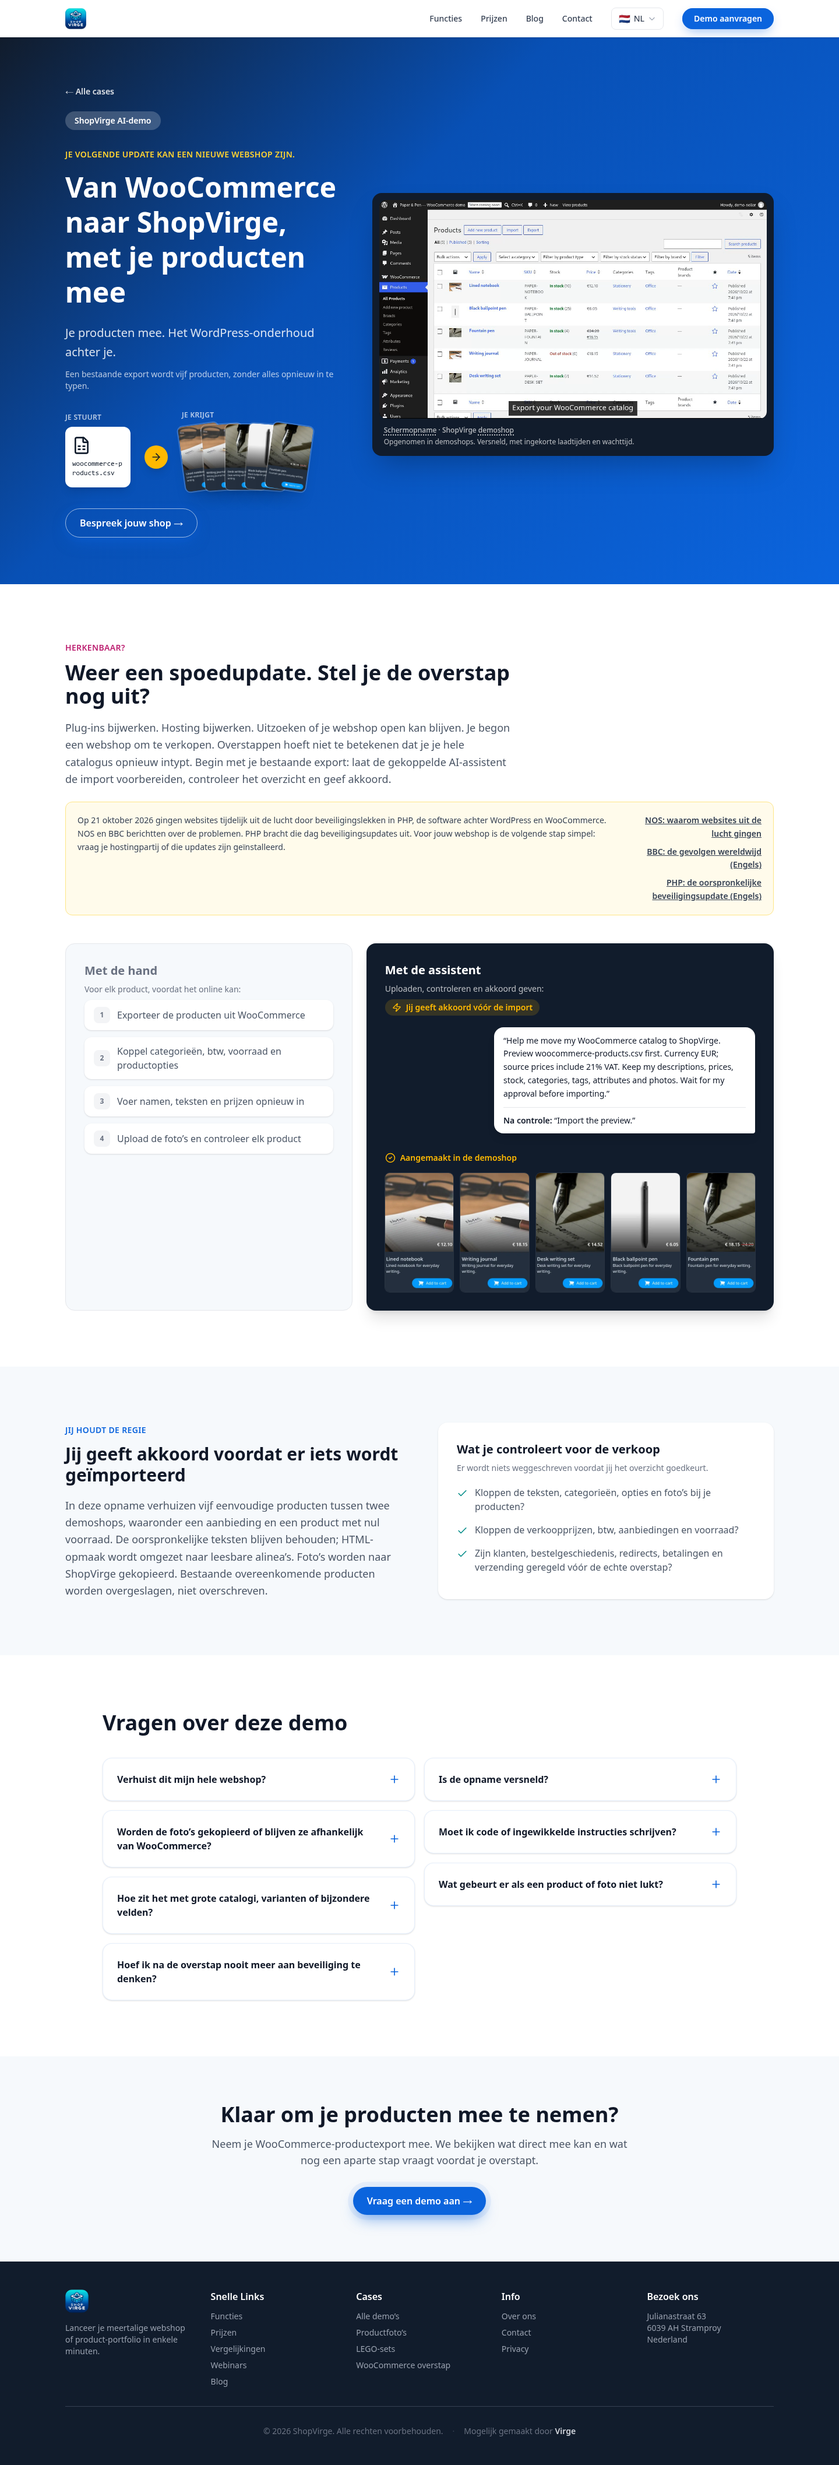
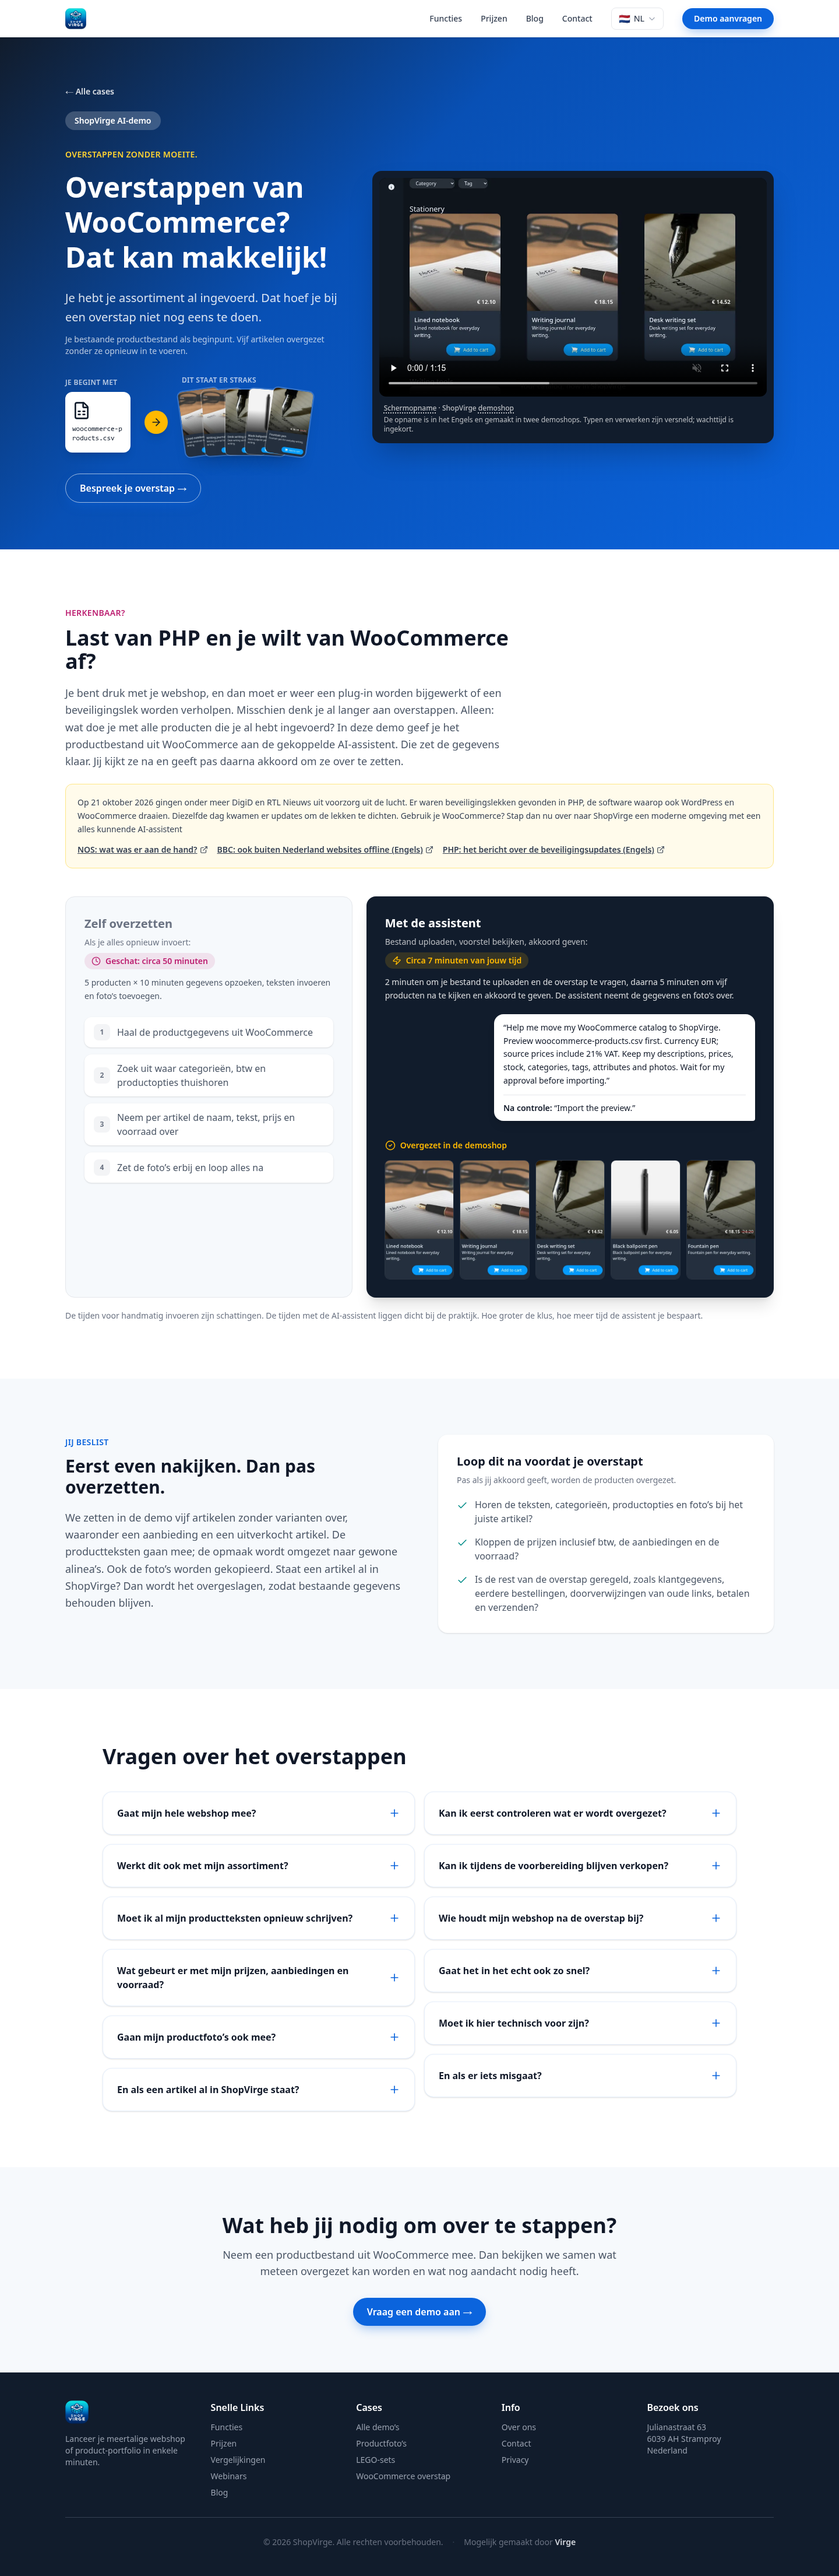
Expand WooCommerce migration FAQ and explain revision recovery

diff --git a/src/data/woocommerce-demo.ts b/src/data/woocommerce-demo.ts
@@ -1,3 +1,4 @@
+
 // Copy follows the recorded WooCommerce export → preview → approval → import.
 export const woocommerceDemo = {
   "en": {
@@ -43,23 +44,43 @@ export const woocommerceDemo = {
       "faq": [
         {
           "q": "Does this move my entire shop?",
-          "a": "This demo transfers the product catalog. For redirects, we can import a list of your old URLs and set up redirects where needed, so links and search results keep working. Need more, such as order history or customer accounts? Contact us and we will plan that with you before the live switch."
+          "a": "The assistant transfers your product catalog: descriptions, prices, stock, categories and photos. We also plan the rest of your switch with you, including customer accounts, order history, your domain, payments, shipping and redirects from old links. Those are separate from transferring the products."
         },
         {
-          "q": "Are the photos copied, or do they still depend on WooCommerce?",
-          "a": "The photos are uploaded into ShopVirge’s own image storage. The recording checks the copied photos without loading them from their source. Keep your old shop available until the export and photo transfer are complete."
+          "q": "Will this work with my product range?",
+          "a": "Yes. We tailor the move to your assortment. Bring your WooCommerce product export so we can look at how you organise your products, including sizes, colours, categories and tax settings. Together we work out how these belong in your ShopVirge shop."
         },
         {
-          "q": "What about large catalogs, variants or unusual fields?",
-          "a": "This first version handles up to 20 rows in a small product CSV. Variants, multiple categories, category hierarchies and special tax mappings need review. Unsupported items are reported rather than silently changed. Bring an export so we can assess your catalog."
+          "q": "Do I have to rewrite my product descriptions?",
+          "a": "No. Your existing product names and descriptions come with you. The assistant turns the formatting from WooCommerce into readable text, so you do not have to copy and paste each listing. You can check the descriptions and make changes before approving the transfer."
         },
         {
-          "q": "Does switching mean I never have to think about security again?",
-          "a": "Every webshop needs security updates. With ShopVirge, we handle hosting, updates and monitoring. Keep your current WooCommerce shop updated while preparing the move: ask your hosting provider whether the security fixes have been installed. Moving your products is a separate step."
+          "q": "What happens to prices, sale prices and stock?",
+          "a": "The assistant brings these details across with the products. In the preview, you check the prices including VAT, sale prices and stock before approving. The recording includes both a sale item and an out-of-stock product, so you can see how they appear in ShopVirge."
         },
         {
-          "q": "Is the recording sped up?",
-          "a": "Yes. Typing and processing are sped up; page loads and idle waiting are trimmed. The export, review, explicit approval and resulting products are real recorded actions in demo shops. No in-chat correction is needed in the selected recording."
+          "q": "Do my photos come with me?",
+          "a": "Yes. The photos are copied to ShopVirge, so your new product pages do not have to keep loading them from WooCommerce. You can check that each photo belongs to the right product. Keep your old shop accessible until the transfer of your data and photos is complete."
+        },
+        {
+          "q": "What if some products are already in ShopVirge?",
+          "a": "Matching products are skipped rather than overwritten, so the assistant does not simply replace the work you have already done. Check the transfer report to see which products were added or skipped, and we can look at any remaining items together."
+        },
+        {
+          "q": "Can I check everything before the transfer?",
+          "a": "Yes. Upload the product export and ask the assistant to prepare a preview. Check the descriptions, prices, stock, categories and photos, and request corrections where needed. Only after you approve does the assistant transfer the products to ShopVirge."
+        },
+        {
+          "q": "Can I keep selling while I prepare the switch?",
+          "a": "Keep your current WooCommerce shop running while we prepare and check the new one. Agree a moment for the final switch and bring any stock or product changes made since the export up to date. We plan the domain, payments, shipping and old product links with you before that switch."
+        },
+        {
+          "q": "Who looks after my shop once I have switched?",
+          "a": "ShopVirge handles hosting, updates and system monitoring. You manage your products and sales without having to maintain a WordPress installation and its plug-ins yourself. You can still use the assistant for day-to-day product work after the move."
+        },
+        {
+          "q": "Will it be as fast as the recording?",
+          "a": "Typing and processing are sped up, and waiting between steps is shortened. The export, preview, approval and resulting products are real actions recorded in demo shops. The time comparison describes your hands-on work: upload, ask, check and approve. The assistant does the repetitive copying, so the benefit grows with the job."
         }
       ],
       "ctaTitle": "Ready to bring your products with you?",
@@ -77,10 +98,6 @@ export const woocommerceDemo = {
       {
         "q": "Do I need to write code or complicated instructions?",
         "a": "No. Start with WooCommerce’s built-in product export and a normal message, as shown in the recording. We set up the connection to your ShopVirge shop."
-      },
-      {
-        "q": "What happens if a product or photo fails?",
-        "a": "The result reports created, skipped and failed items. A failed photo does not erase the product, and an access denial stops further writes. Check the report and correct missing items before switching your live shop."
       }
     ],
     "newsSources": [
@@ -100,18 +117,18 @@ export const woocommerceDemo = {
   },
   "nl": {
     "copy": {
-      "title": "Van WooCommerce naar ShopVirge, met je producten mee",
-      "description": "Bekijk hoe een WooCommerce-export vijf producten in ShopVirge wordt. Controleer teksten, prijzen, voorraad en foto’s en keur de import goed.",
-      "intro": "Je producten mee. Het WordPress-onderhoud achter je.",
+      "title": "Overstappen van WooCommerce? Dat kan makkelijk!",
+      "description": "Van WooCommerce naar ShopVirge zonder alles opnieuw in te voeren. Bekijk hoe vijf artikelen worden overgezet, met hun teksten, prijzen, voorraad en foto’s.",
+      "intro": "Je hebt je assortiment al ingevoerd. Dat hoef je bij een overstap niet nog eens te doen.",
       "video": "woocommerce",
       "other": ""
     },
     "details": {
-      "input": "Eén WooCommerce-export",
-      "output": "Vijf producten in ShopVirge",
+      "input": "Je productbestand uit WooCommerce",
+      "output": "Vijf artikelen overgezet",
       "inputImage": null,
       "inputFile": "woocommerce-products.csv",
-      "inputLabel": "Je bestaande catalogus",
+      "inputLabel": "De producten die je al hebt",
       "outputs": null,
       "numbers": [],
       "cards": [
@@ -124,75 +141,91 @@ export const woocommerceDemo = {
       "prompt": "Help me move my WooCommerce catalog to ShopVirge. Preview woocommerce-products.csv first. Currency EUR; source prices include 21% VAT. Keep my descriptions, prices, stock, categories, tags, attributes and photos. Wait for my approval before importing.",
       "beforeCost": "",
       "before": [
-        "Exporteer de producten uit WooCommerce",
-        "Koppel categorieën, btw, voorraad en productopties",
-        "Voer namen, teksten en prijzen opnieuw in",
-        "Upload de foto’s en controleer elk product"
+        "Haal de productgegevens uit WooCommerce",
+        "Zoek uit waar categorieën, btw en productopties thuishoren",
+        "Neem per artikel de naam, tekst, prijs en voorraad over",
+        "Zet de foto’s erbij en loop alles na"
       ],
       "problemTitle": "Ben je meer tijd kwijt aan onderhoud dan aan verkopen?",
       "problemBody": "Plug-ins bijwerken, hosting bijwerken, beveiligingsupdates. Je begon een webshop om te verkopen, niet om servers te beheren. ShopVirge is een beheerde dienst: wij beheren en updaten alles voor je. En overstappen hoeft niet te betekenen dat je je hele catalogus opnieuw intypt. Begin met je bestaande export: laat de gekoppelde AI-assistent de import voorbereiden, controleer het overzicht en geef akkoord.",
       "useTitle": "Jij geeft akkoord voordat er iets wordt geïmporteerd",
       "useBody": "In deze opname verhuizen vijf eenvoudige producten tussen twee demoshops, waaronder een aanbieding en een product met nul voorraad. De oorspronkelijke teksten blijven behouden; HTML-opmaak wordt omgezet naar leesbare alinea’s. Foto’s worden naar ShopVirge gekopieerd. Bestaande overeenkomende producten worden overgeslagen, niet overschreven.",
       "review": [
-        "Kloppen de teksten, categorieën, opties en foto’s bij je producten?",
-        "Kloppen de verkoopprijzen, btw, aanbiedingen en voorraad?",
-        "Zijn klanten, bestelgeschiedenis, redirects, betalingen en verzending geregeld vóór de echte overstap?"
+        "Horen de teksten, categorieën, productopties en foto’s bij het juiste artikel?",
+        "Kloppen de prijzen inclusief btw, de aanbiedingen en de voorraad?",
+        "Is de rest van de overstap geregeld, zoals klantgegevens, eerdere bestellingen, doorverwijzingen van oude links, betalen en verzenden?"
       ],
       "faq": [
         {
-          "q": "Verhuist dit mijn hele webshop?",
-          "a": "Deze demo verhuist de productcatalogus. Voor redirects kunnen we een lijst met je oude URL’s importeren en waar nodig doorverwijzingen instellen, zodat links en zoekresultaten blijven werken. Wil je meer meenemen, zoals bestelgeschiedenis of klantaccounts? Neem contact met ons op, dan plannen we dat samen vóór de echte overstap."
+          "q": "Gaat mijn hele webshop mee?",
+          "a": "De assistent zet je assortiment over: productteksten, prijzen, voorraad, categorieën en foto’s. Voor de rest van je overstap maken we samen een plan. Denk aan klantgegevens, eerdere bestellingen, je domeinnaam, betalen, verzenden en het doorsturen van oude links. Dat regelen we naast het overzetten van je producten."
         },
         {
-          "q": "Worden de foto’s gekopieerd of blijven ze afhankelijk van WooCommerce?",
-          "a": "De foto’s worden naar de eigen afbeeldingsopslag van ShopVirge geüpload. In de opname worden de gekopieerde foto’s gecontroleerd zonder ze bij de bron op te halen. Houd je oude webshop beschikbaar tot de export en foto-overdracht klaar zijn."
+          "q": "Werkt dit ook met mijn assortiment?",
+          "a": "Ja. We stemmen de overstap af op de producten die jij verkoopt. Neem je productbestand uit WooCommerce mee, dan bekijken we hoe je assortiment is opgebouwd. Denk aan maten, kleuren, categorieën en btw. Samen zorgen we dat die gegevens goed terechtkomen in je ShopVirge-webshop."
         },
         {
-          "q": "Hoe zit het met grote catalogi, varianten of bijzondere velden?",
-          "a": "Deze eerste versie verwerkt maximaal 20 regels in een klein productbestand. Varianten, meerdere categorieën, categoriehiërarchieën en bijzondere btw-koppelingen vragen om controle. Niet-ondersteunde artikelen worden gemeld in plaats van stilzwijgend aangepast. Neem een export mee, dan bekijken we jouw catalogus."
+          "q": "Moet ik al mijn productteksten opnieuw schrijven?",
+          "a": "Nee. De namen en beschrijvingen die je al hebt, gaan mee. De assistent zet de opmaak uit WooCommerce om naar leesbare tekst. Je hoeft dus niet elk artikel opnieuw te typen of te kopiëren. Je kijkt de teksten na en kunt ze laten aanpassen voordat je akkoord geeft."
         },
         {
-          "q": "Hoef ik na de overstap nooit meer aan beveiliging te denken?",
-          "a": "Elke webshop heeft beveiligingsupdates nodig. Bij ShopVirge regelen wij de hosting, updates en monitoring. Blijf je huidige WooCommerce-shop bijwerken terwijl je de overstap voorbereidt: vraag je hostingpartij of de beveiligingsupdates zijn geïnstalleerd. Je producten verhuizen is een aparte stap."
+          "q": "Wat gebeurt er met mijn prijzen, aanbiedingen en voorraad?",
+          "a": "Die gegevens gaan met je producten mee. In het voorstel controleer je de prijzen inclusief btw, aanbiedingsprijzen en voorraad voordat je akkoord geeft. In de opname zie je zowel een aanbieding als een uitverkocht artikel terug in ShopVirge."
         },
         {
-          "q": "Is de opname versneld?",
-          "a": "Ja. Typen en verwerken zijn versneld; laden van pagina’s en onnodig wachten zijn ingekort. De export, controle, het expliciete akkoord en de producten zijn echt opgenomen in demoshops. In de gekozen opname is geen correctie in de chat nodig."
+          "q": "Gaan mijn productfoto’s ook mee?",
+          "a": "Ja. Je foto’s worden naar ShopVirge gekopieerd. Je nieuwe productpagina’s hoeven ze daarna niet meer bij WooCommerce op te halen. Je kunt controleren of de juiste foto bij elk artikel staat. Houd je oude webshop bereikbaar tot de gegevens en foto’s zijn overgezet."
+        },
+        {
+          "q": "En als een artikel al in ShopVirge staat?",
+          "a": "Een overeenkomend artikel wordt overgeslagen, zodat je bestaande werk behouden blijft. Na het overzetten zie je welke producten zijn toegevoegd en welke zijn overgeslagen. Zijn er nog artikelen die aandacht nodig hebben? Dan bekijken we die samen."
+        },
+        {
+          "q": "Kan ik eerst controleren wat er wordt overgezet?",
+          "a": "Ja. Je uploadt je productbestand en vraagt de assistent om een voorstel. Daarin bekijk je de teksten, prijzen, voorraad, categorieën en foto’s. Je kunt eerst om aanpassingen vragen. Pas als jij akkoord geeft, zet de assistent de producten over naar ShopVirge."
+        },
+        {
+          "q": "Kan ik tijdens de voorbereiding blijven verkopen?",
+          "a": "Laat je WooCommerce-webshop open terwijl we de nieuwe shop klaarzetten en controleren. We spreken samen af wanneer je echt overstapt. Verandert je voorraad of pas je tussendoor producten aan? Dan werken we die gegevens bij voor de overstap. Ook je domein, betalen, verzenden en oude productlinks nemen we vooraf met je door."
+        },
+        {
+          "q": "Wie houdt mijn webshop na de overstap bij?",
+          "a": "Bij ShopVirge verzorgen wij de hosting, updates en bewaking van de systemen. Jij beheert je producten en verkopen, zonder zelf een WordPress-installatie en plug-ins te onderhouden. Ook na de overstap kun je de assistent gebruiken om aan je assortiment te werken."
+        },
+        {
+          "q": "Gaat het in het echt ook zo snel?",
+          "a": "In de opname zijn het typen en verwerken versneld en is het wachten ingekort. Het bestand ophalen, de gegevens nakijken, akkoord geven en de producten overzetten hebben we echt in demoshops gedaan. De tijdvergelijking gaat over jouw werk: uploaden, vragen, controleren en akkoord geven. De assistent doet het herhaalwerk. Hoe groter de klus, hoe meer tijd dat je bespaart."
         }
       ],
-      "ctaTitle": "Klaar om je producten mee te nemen?",
-      "ctaBody": "Neem je WooCommerce-productexport mee. We bekijken wat direct mee kan en wat nog een aparte stap vraagt voordat je overstapt.",
-      "caption": "Een echte WooCommerce-export, gecontroleerd en goedgekeurd voordat vijf producten in ShopVirge worden geïmporteerd."
+      "ctaTitle": "Wat heb jij nodig om over te stappen?",
+      "ctaBody": "Neem een productbestand uit WooCommerce mee. Dan bekijken we samen wat meteen overgezet kan worden en wat nog aandacht nodig heeft.",
+      "caption": "Vijf artikelen uit WooCommerce, met teksten en foto’s. Eerst gecontroleerd, daarna met akkoord overgezet naar ShopVirge."
     },
-    "hook": "Je volgende update kan een nieuwe webshop zijn.",
+    "hook": "Overstappen zonder moeite.",
     "notes": {
-      "1": "Opgenomen in demoshops. Versneld, met ingekorte laadtijden en wachttijd.",
-      "3": "Er wordt niets weggeschreven voordat jij het overzicht goedkeurt.",
-      "4": "Een bestaande export wordt vijf producten, zonder alles opnieuw in te typen."
+      "1": "De opname is in het Engels en gemaakt in twee demoshops. Typen en verwerken zijn versneld; wachttijd is ingekort.",
+      "3": "Pas als jij akkoord geeft, worden de producten overgezet.",
+      "4": "Je bestaande productbestand als beginpunt. Vijf artikelen overgezet zonder ze opnieuw in te voeren."
     },
-    "news": "Op 21 oktober 2026 gingen websites tijdelijk uit de lucht door beveiligingslekken in PHP, de software achter WordPress en WooCommerce. NOS en BBC berichtten over de problemen. PHP bracht die dag beveiligingsupdates uit. Voor jouw webshop is de volgende stap simpel: vraag je hostingpartij of die updates zijn geïnstalleerd.",
+    "news": "Op 21 oktober 2026 gingen onder meer DigiD en RTL Nieuws uit voorzorg uit de lucht. Er waren beveiligingslekken gevonden in PHP, de software waarop ook WordPress en WooCommerce draaien. Diezelfde dag kwamen er updates om de lekken te dichten. Gebruik je WooCommerce? Stap dan nu over naar ShopVirge een moderne omgeving met een alles kunnende AI-assistent",
     "concernFaq": [
       {
-        "q": "Moet ik code of ingewikkelde instructies schrijven?",
-        "a": "Nee. Begin met de ingebouwde productexport van WooCommerce en een normaal bericht, zoals in de opname. Wij richten de koppeling met jouw ShopVirge-shop in."
-      },
-      {
-        "q": "Wat gebeurt er als een product of foto niet lukt?",
-        "a": "Het resultaat meldt aangemaakte, overgeslagen en mislukte artikelen. Een mislukte foto wist het product niet; ontbrekende toegangsrechten stoppen verdere wijzigingen. Controleer het verslag en herstel ontbrekende onderdelen voordat je live overstapt."
+        "q": "Moet ik hier technisch voor zijn?",
+        "a": "Nee. Je haalt je productbestand op met de exportfunctie van WooCommerce en vertelt in gewone woorden wat je wilt overzetten. Wij regelen de koppeling met je ShopVirge-webshop. In de opname zie je hoe dat werkt."
       }
     ],
     "newsSources": [
       {
         "href": "https://nos.nl/artikel/2636090-zoveel-sites-in-een-klap-plat-hoe-kan-dat-en-zijn-je-gegevens-veilig",
-        "label": "NOS: waarom websites uit de lucht gingen"
+        "label": "NOS: wat was er aan de hand?"
       },
       {
         "href": "https://www.bbc.co.uk/news/articles/cmx23d0k57d3o",
-        "label": "BBC: de gevolgen wereldwijd (Engels)"
+        "label": "BBC: ook buiten Nederland websites offline (Engels)"
       },
       {
         "href": "https://www.php.net/archive/2026.php#2026-10-21-5",
-        "label": "PHP: de oorspronkelijke beveiligingsupdate (Engels)"
+        "label": "PHP: het bericht over de beveiligingsupdates (Engels)"
       }
     ]
   }

diff --git a/src/data/mkb-concerns.ts b/src/data/mkb-concerns.ts
@@ -5,6 +5,19 @@
 
 export type Lang = 'en' | 'nl';
 export type Tier = 'inline' | 'faq';
+
+/** Product history is available throughout ShopVirge, across all demo cases. */
+export const productHistoryFaq = {
+  en: {
+    q: 'What if something goes wrong?',
+    a: 'ShopVirge keeps the version history of your product details, including descriptions. You can see what changed, who made the change and when. If a change is wrong, you can restore an earlier version. That applies to changes made by you, a colleague or the AI assistant.',
+  },
+  nl: {
+    q: 'En als er iets misgaat?',
+    a: 'ShopVirge bewaart de versiegeschiedenis van je productgegevens, zoals beschrijvingen. Je ziet wat er is aangepast, door wie en wanneer. Klopt een wijziging niet? Dan kun je een eerdere versie terugzetten. Dat geldt voor wijzigingen van jou, een collega én de AI-assistent.',
+  },
+};
+
 type ConcernText = { note?: string; concern?: string; answer?: string };
 
 export interface Concern {

diff --git a/src/data/cases.ts b/src/data/cases.ts
@@ -41,10 +41,10 @@ export const cases = [
       input: 'Start with a WooCommerce export',
     },
     nl: {
-      title: 'Neem je WooCommerce-producten mee',
+      title: 'Van WooCommerce naar ShopVirge',
       footerLabel: 'WooCommerce overstap',
-      description: 'Begin met je bestaande productexport. Controleer het overzicht en keur de import van vijf producten goed, inclusief teksten, prijzen, voorraad en foto’s.',
-      input: 'Begin met een WooCommerce-export',
+      description: 'Overstappen zonder alles opnieuw in te voeren? Bekijk hoe vijf artikelen worden overgezet, met teksten, prijzen, voorraad en foto’s. Jij kijkt alles na en geeft akkoord.',
+      input: 'Je productbestand uit WooCommerce',
     },
   },
 ];
